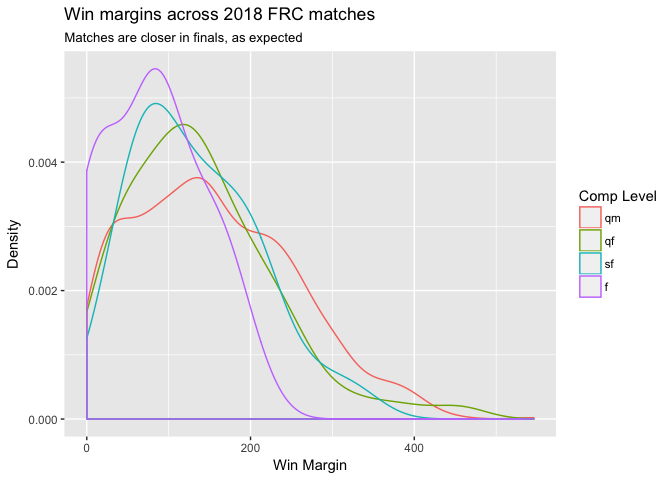
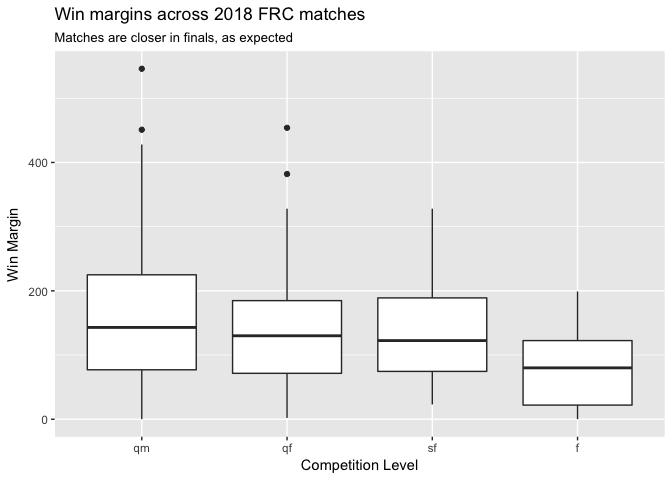
Switch to boxplots

diff --git a/2018_matches.md b/2018_matches.md
@@ -72,14 +72,13 @@ Here we look at the results from 1840 matches played so far this year.
 matches_flat %>%
   gather(alliances.red.score, alliances.blue.score, key = "alliance", value = "score") %>%
   filter(score >= 0) %>%
-  ggplot(aes(score, ..density.., color = parse_factor(comp_level, levels = comp_levels, ordered = TRUE))) +
-  geom_density() +
+  ggplot(aes(parse_factor(comp_level, levels = comp_levels, ordered = TRUE), score)) +
+  geom_boxplot() +
   labs(
     title = "Score distribution across 2018 FRC matches",
-    subtitle = "Scores are higher in elims, and closely matched in finals",
-    x = "Score",
-    y = "Density",
-    color = "Comp Level"
+    subtitle = "Scores are higher in elims, andwith a smaller range in finals",
+    x = "Competition Level",
+    y = "Score"
   )
 ```
 
@@ -88,18 +87,17 @@ matches_flat %>%
 ``` r
 matches_flat %>%
   filter(alliances.red.score >= 0) %>%
-  filter(alliances.blue.score >= 0)%>%
+  filter(alliances.blue.score >= 0) %>%
   mutate(
     win_margin = abs(alliances.red.score - alliances.blue.score)
   ) %>%
-  ggplot(aes(win_margin, ..density.., color = parse_factor(comp_level, levels = comp_levels, ordered = TRUE))) +
-  geom_density() +
+  ggplot(aes(parse_factor(comp_level, levels = comp_levels, ordered = TRUE), win_margin)) +
+  geom_boxplot() +
   labs(
     title = "Win margins across 2018 FRC matches",
     subtitle = "Matches are closer in finals, as expected",
-    x = "Win Margin",
-    y = "Density",
-    color = "Comp Level"
+    x = "Competition Level",
+    y = "Win Margin"
   )
 ```
 
